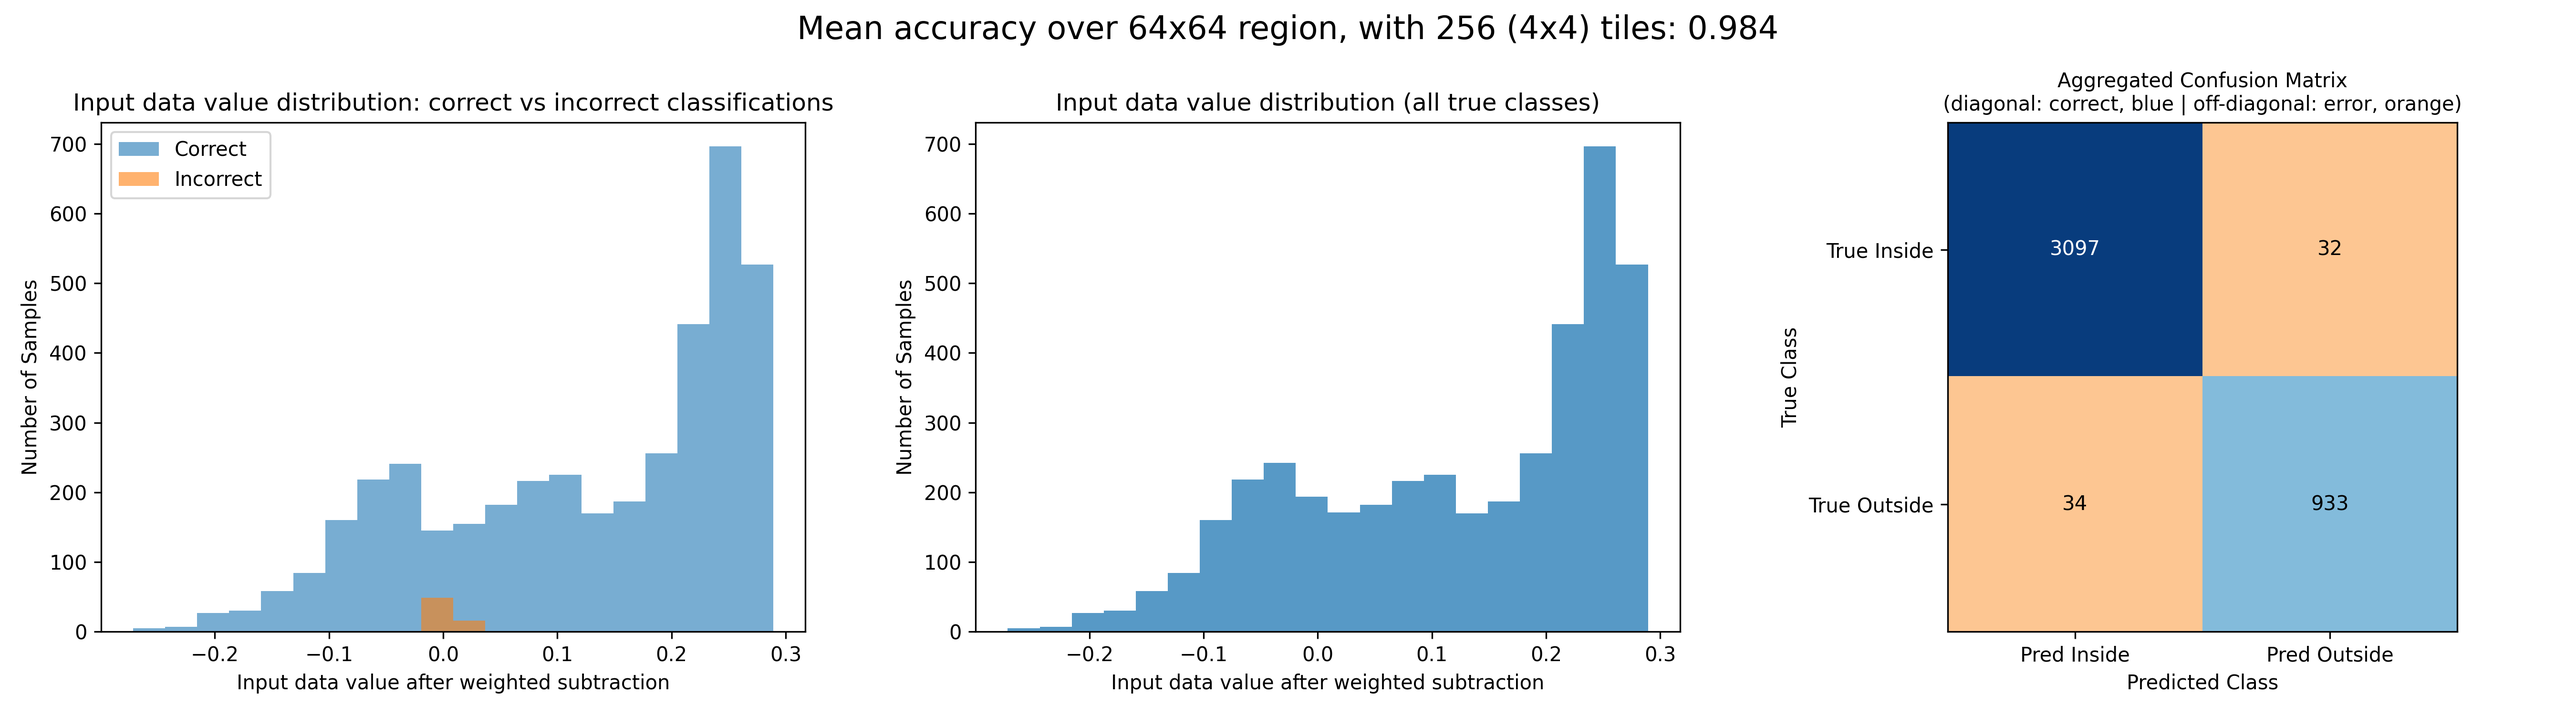
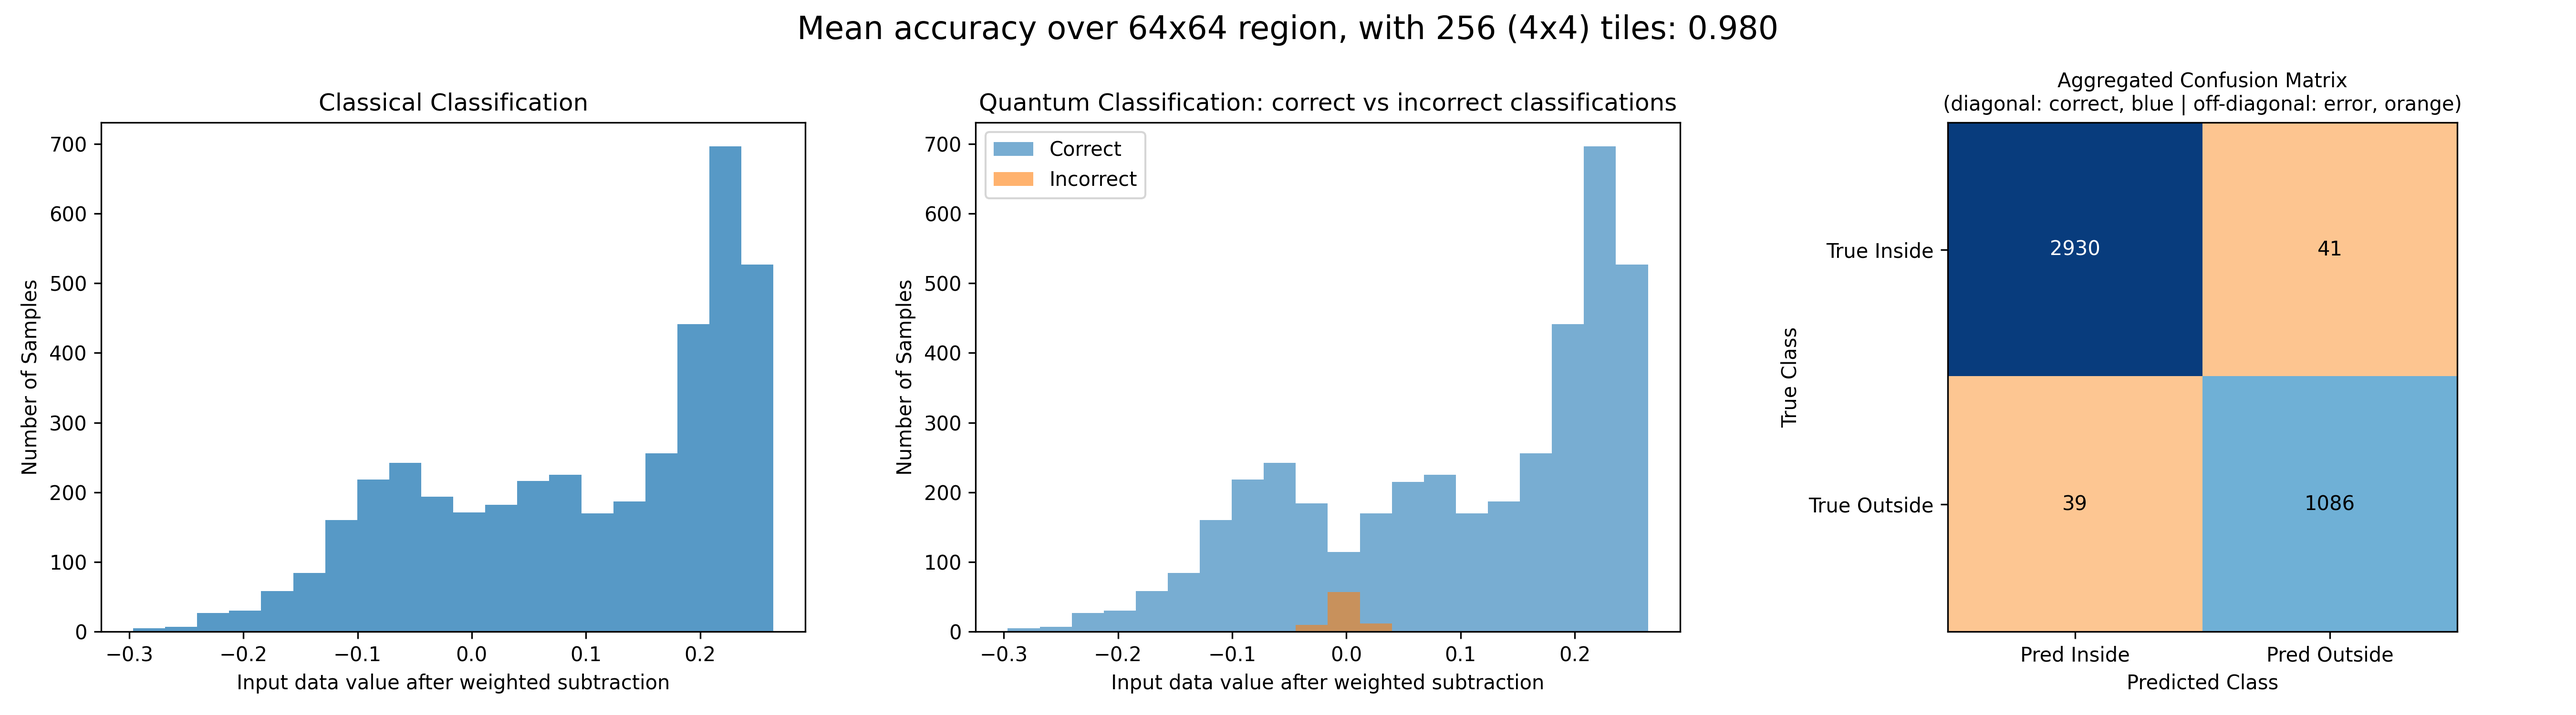
updated result images

diff --git a/ehands_qcrank_vertex_classification_V1.py b/ehands_qcrank_vertex_classification_V1.py
@@ -570,6 +570,7 @@ def qcrank_ehands_vertex_classification_image(
     canvas_h = n_ty * tile_height
     canvas_w = n_tx * tile_width
     padded_canvas_gray = np.full((canvas_h, canvas_w), -1.0, dtype=np.float32)
+    padded_canvas_true = np.zeros((canvas_h, canvas_w), dtype=np.int32)
     padded_canvas_pred = np.zeros((canvas_h, canvas_w), dtype=np.int32)
 
     nq_data = 1
@@ -671,6 +672,9 @@ def qcrank_ehands_vertex_classification_image(
             agg_counts["1"] += int(np.sum(classifications == 1))
 
             n_pix = tile_width * tile_height
+            true_tile = (
+                np.asarray(comp["y_true"], dtype=int).reshape(-1)[:n_pix].reshape(tile_height, tile_width)
+            )
             pred_tile = (
                 np.asarray(comp["y_pred"], dtype=int).reshape(-1)[:n_pix].reshape(tile_height, tile_width)
             )
@@ -679,6 +683,7 @@ def qcrank_ehands_vertex_classification_image(
             ty1 = ty0 + tile_height
             tx1 = tx0 + tile_width
             padded_canvas_gray[ty0:ty1, tx0:tx1] = padded_tile
+            padded_canvas_true[ty0:ty1, tx0:tx1] = true_tile
             padded_canvas_pred[ty0:ty1, tx0:tx1] = pred_tile
 
             tile_index += 1
@@ -713,6 +718,7 @@ def qcrank_ehands_vertex_classification_image(
     )
     plot_full_image_vs_classification(
         padded_canvas_gray,
+        padded_canvas_true,
         padded_canvas_pred,
         out_name=side_by_side_out,
         input_value_range=(0.0, 1.0) if use_method3 else (-1.0, 1.0),
@@ -731,6 +737,7 @@ def qcrank_ehands_vertex_classification_image(
 
 def plot_full_image_vs_classification(
     input_image,
+    true_image,
     predicted_image,
     out_name,
     *,
@@ -741,13 +748,14 @@ def plot_full_image_vs_classification(
     n_tiles=None,
 ):
     input_image = np.asarray(input_image, dtype=np.float32)
+    true_image = np.asarray(true_image, dtype=np.int32)
     predicted_image = np.asarray(predicted_image, dtype=np.int32)
     h, w = input_image.shape
     fig_w = min(22.0, max(10.0, w / 32.0 + 4.0))
     fig_h = min(14.0, max(5.0, h / 32.0 + 2.0))
-    fig, axes = plt.subplots(1, 2, figsize=(1.65 * fig_w, fig_h))
+    fig, axes = plt.subplots(1, 3, figsize=(1.65 * fig_w, fig_h))
 
-    ax_input, ax_pred = axes
+    ax_input, ax_true, ax_pred = axes
     in_vmin, in_vmax = float(input_value_range[0]), float(input_value_range[1])
     im0 = ax_input.imshow(
         input_image, cmap="gray", vmin=in_vmin, vmax=in_vmax, origin="upper", zorder=1
@@ -761,7 +769,7 @@ def plot_full_image_vs_classification(
         pad_mask = (cy >= rh_i) | (cx >= rw_i)
         n_pad = int(np.sum(pad_mask))
         if n_pad > 0:
-            for ax in (ax_input, ax_pred):
+            for ax in (ax_input, ax_true, ax_pred):
                 ov = np.zeros((h, w, 4), dtype=np.float32)
                 ov[pad_mask] = (0.95, 0.15, 0.65, 0.55)
                 ax.imshow(ov, origin="upper", interpolation="nearest", zorder=2)
@@ -774,14 +782,36 @@ def plot_full_image_vs_classification(
         ax_input.set_title("Input Image Grayscale (full region)")
     ax_input.set_xlabel("x (column)")
     ax_input.set_ylabel("y (row)")
+    # Keep subplot widths symmetric by attaching the colorbar inside the first panel.
+    cax0 = ax_input.inset_axes([1.02, 0.08, 0.025, 0.84])
     cbar0 = fig.colorbar(
         im0,
-        ax=ax_input,
+        cax=cax0,
         ticks=[in_vmin, 0.5 * (in_vmin + in_vmax), in_vmax],
-        fraction=0.042,
-        pad=0.02,
     )
     cbar0.set_ticklabels([f"{in_vmin:g}", f"{0.5 * (in_vmin + in_vmax):g}", f"{in_vmax:g}"])
+
+    ax_true.imshow(
+        true_image, cmap="viridis_r", vmin=0, vmax=1, origin="upper", zorder=1
+    )
+    if region_size_hw is not None:
+        if n_pad > 0:
+            ax_true.set_title("Classical (magenta = padded band) (stitched tiles)")
+        else:
+            ax_true.set_title("Classical Classes (stitched tiles)")
+    else:
+        ax_true.set_title("Classical Classes (stitched tiles)")
+    ax_true.set_xlabel("x (column)")
+    ax_true.set_ylabel("y (row)")
+    cmap = plt.get_cmap("viridis_r")
+    ax_true.legend(
+        handles=[
+            Patch(facecolor=cmap(0.0), edgecolor="black", label="Inside"),
+            Patch(facecolor=cmap(1.0), edgecolor="black", label="Outside"),
+        ],
+        loc="upper right",
+        framealpha=0.95,
+    )
 
     im1 = ax_pred.imshow(
         predicted_image, cmap="viridis_r", vmin=0, vmax=1, origin="upper", zorder=1
@@ -797,7 +827,6 @@ def plot_full_image_vs_classification(
         ax_pred.set_title("Predicted Classes (stitched tiles)")
     ax_pred.set_xlabel("x (column)")
     ax_pred.set_ylabel("y (row)")
-    cmap = plt.get_cmap("viridis_r")
     ax_pred.legend(
         handles=[
             Patch(facecolor=cmap(0.0), edgecolor="black", label="Inside"),
@@ -807,15 +836,9 @@ def plot_full_image_vs_classification(
         framealpha=0.95,
     )
 
-    def _axis_ticks(n, max_ticks=17):
-        if n <= max_ticks:
-            return np.arange(n)
-        step = max(1, int(np.ceil(n / max_ticks)))
-        return np.arange(0, n, step)
-
-    xt = _axis_ticks(w)
-    yt = _axis_ticks(h)
-    for ax in (ax_input, ax_pred):
+    xt = axis_ticks(w)
+    yt = axis_ticks(h)
+    for ax in (ax_input, ax_true, ax_pred):
         ax.set_xticks(xt)
         ax.set_yticks(yt)
 
@@ -833,9 +856,9 @@ def plot_full_image_vs_classification(
         )
 
     if has_canvas_caption:
-        fig.tight_layout(rect=[0, 0, 1, 0.90], w_pad=0.3)
+        fig.tight_layout(rect=[0, 0, 1, 0.90])
     else:
-        fig.tight_layout(w_pad=0.3)
+        fig.tight_layout()
 
     if has_canvas_caption:
         fig.canvas.draw()
@@ -847,13 +870,18 @@ def plot_full_image_vs_classification(
     fig.savefig(out_name, bbox_inches="tight", dpi=150)
     print(f"Saved full image vs classification plot to: {out_name}")
 
+def axis_ticks(n, max_ticks=17):
+    if n <= max_ticks:
+        return np.arange(n)
+    step = max(1, int(np.ceil(n / max_ticks)))
+    return np.arange(0, n, step)
 
 def plot_correct_incorrect_input_histogram(all_correct_vals, all_incorrect_vals, bins=20, ax=None):
     if ax is None:
         ax = plt.gca()
 
     if not (all_correct_vals or all_incorrect_vals):
-        ax.set_title("Input distribution: correct vs incorrect classifications")
+        ax.set_title("Quantum Classification: correct vs incorrect classifications")
         ax.text(0.5, 0.5, "No data", ha="center", va="center")
         ax.axis("off")
         return
@@ -875,7 +903,7 @@ def plot_correct_incorrect_input_histogram(all_correct_vals, all_incorrect_vals,
 
     ax.set_xlabel("Input data value after weighted subtraction")
     ax.set_ylabel("Number of Samples")
-    ax.set_title("Input data value distribution: correct vs incorrect classifications")
+    ax.set_title("Quantum Classification: correct vs incorrect classifications")
     ax.legend()
 
 
@@ -967,7 +995,7 @@ def plot_true_class_input_histogram(all_true_inside_vals, all_true_outside_vals,
 
     ax.set_xlabel("Input data value after weighted subtraction")
     ax.set_ylabel("Number of Samples")
-    ax.set_title("Input data value distribution (all true classes)")
+    ax.set_title("Classical Classification")
 
 
 def print_per_datapoint_classification_table(data_vals, subtraction_vals, y_true, y_pred):
@@ -1021,14 +1049,9 @@ def plot_classification_summary_figure(region_width, region_height, tile_width, 
         title,
         fontsize=16,
     )
-    ax_hist, ax_true_hist, ax_cm = ax_arr
+    ax_true_hist, ax_hist, ax_cm = ax_arr
 
-    plot_correct_incorrect_input_histogram(
-        all_correct_vals,
-        all_incorrect_vals,
-        bins=bins,
-        ax=ax_hist,
-    )
+    # Classical Classification
     plot_true_class_input_histogram(
         all_true_inside_vals,
         all_true_outside_vals,
@@ -1036,6 +1059,15 @@ def plot_classification_summary_figure(region_width, region_height, tile_width, 
         ax=ax_true_hist,
     )
 
+    # Quantum Classification
+    plot_correct_incorrect_input_histogram(
+        all_correct_vals,
+        all_incorrect_vals,
+        bins=bins,
+        ax=ax_hist,
+    )
+
+    # Confusion Matrix
     if cm_list:
         total_cm = np.sum(np.stack(cm_list, axis=0), axis=0)
         print(
